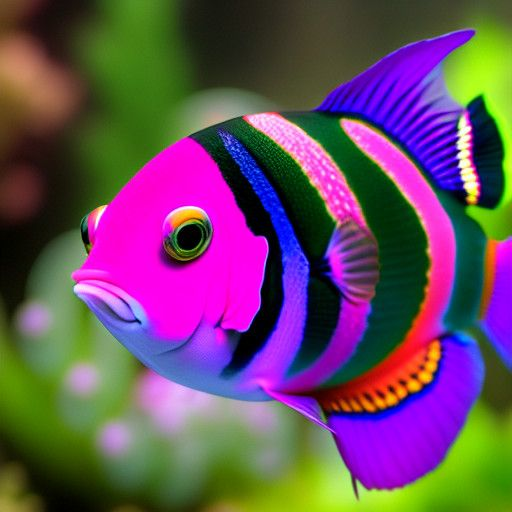
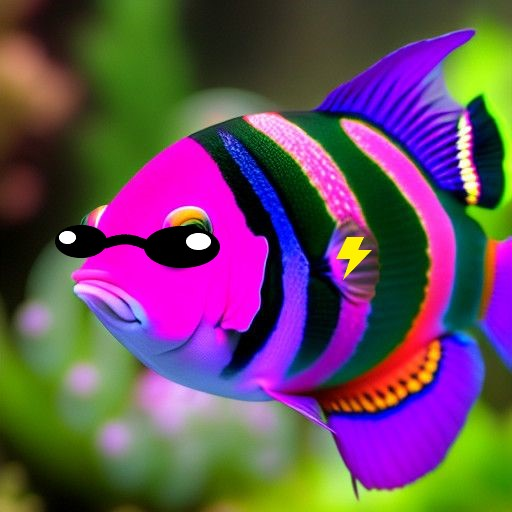
Редизайн томогочи

Changed region(s): [[0.0938, 0.4375, 0.4375, 0.5312], [0.6562, 0.4375, 0.7188, 0.5625]]

diff --git a/src/components/tomofish.vue b/src/components/tomofish.vue
@@ -296,6 +296,7 @@ function restart() {
     if (flag.value) {
         flag.value = !flag.value
     }
+    end_time.value = 0
     end_time_interval.value = setInterval(() => { end_time.value++ }, 1000)
 }
 // setInterval(() => { console.log(end_time.value) }, 1000);
@@ -330,7 +331,7 @@ function restart() {
 
 
             <div class="acvar">
-                <div class="fish" @click="GoClickFish()"> <img src="../assets/fish.jpg" alt=""></div>
+                <div class="fish" @click="GoClickFish()"> <img src="../assets/rich_fish.jpg" alt=""></div>
 
                 <div class="fish_clone" @click="GoClickFishClone()" v-if="flag"> <img src="../assets/fish2.jpg" alt="">
                 </div>
@@ -346,7 +347,7 @@ function restart() {
                         фильтр</strong>
                 </label>
                 <label for="" v-if="!flag">
-                    <div class="btn" @click="clone()"><img src="../assets/i.webp" alt=""></div>
+                    <div class="btn" @click="clone()"><img src="../assets/tel.webp" alt=""></div>
                     <strong>Звонок другу</strong>
                 </label>
                 <h2 v-if="flag">Друг приплывает на 30 секунд<br> и они едят в 2 раза больше</h2>
@@ -429,6 +430,7 @@ h1{
 
 .btn img {
     max-width: 150px;
+    min-width: 100%;
     height: 150px;
     margin: 0;
 }
@@ -472,6 +474,8 @@ h1{
     padding: 20px;
     box-shadow: 2px 2px 4px black;
     max-width: 200px;
+    background: #0000009c;
+
 }
 
 .stats{

diff --git a/src/components/Main_page.vue b/src/components/Main_page.vue
@@ -101,7 +101,7 @@ const route = useRoute()
 }
 
 .img_fish {
-    background-image: url(../assets/fish.jpg);
+    background-image: url(../assets/rich_fish.jpg);
     background-size: cover;
     background-repeat: no-repeat;
     width: 100%;